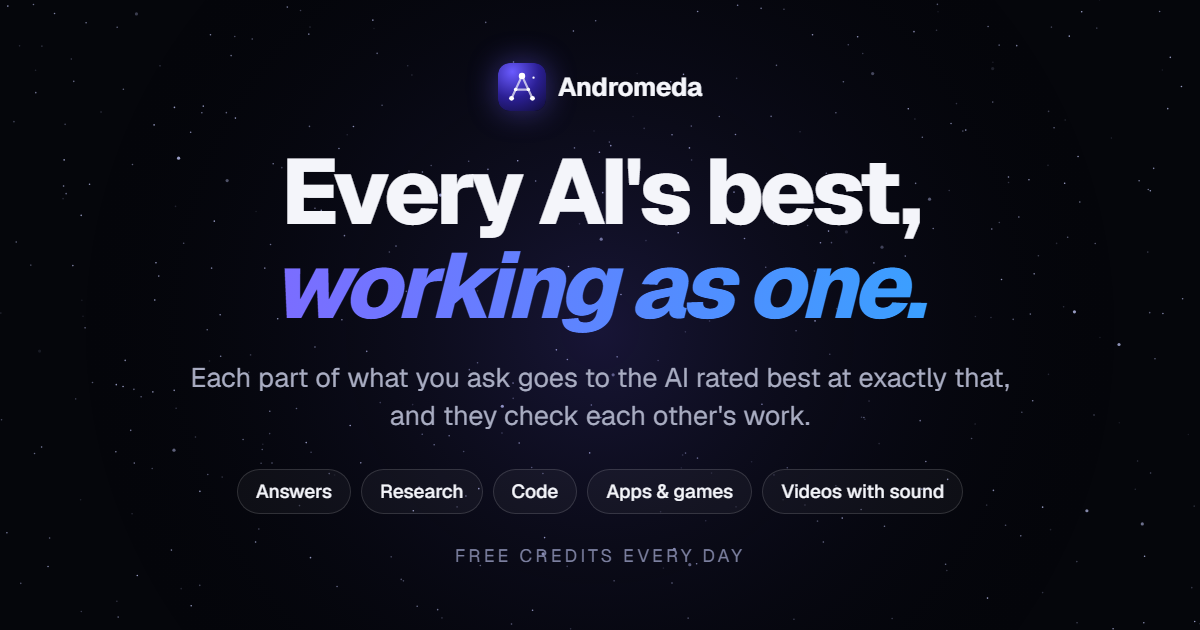
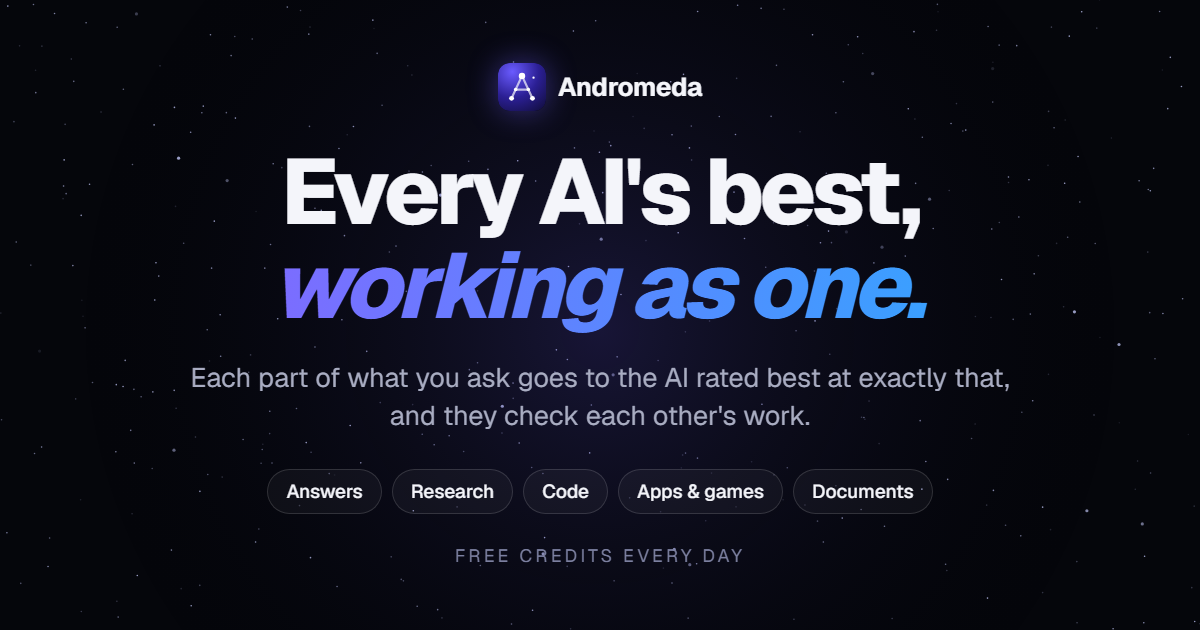
Pictures, video, music and voice by the models best at them, and until those are connected a plain 'not yet' that costs nobody anything (a request that plainly asks for one is stopped before any model is called; never turned into something else); no drawn-in-code stand-in; everyday answers think min

Changed region(s): [[0.2158, 0.754, 0.8017, 0.8143]]

diff --git a/index.html b/index.html
@@ -4,12 +4,12 @@
 <meta charset="utf-8">
 <meta name="viewport" content="width=device-width, initial-scale=1, viewport-fit=cover">
 <title>Andromeda — the right model for every message</title>
-<meta name="description" content="Andromeda makes anything from one message: answers, research, code, apps and games, and videos with sound, each step by the AI model rated best at it. Free credits every day.">
+<meta name="description" content="Andromeda makes anything from one message: answers, research, code, apps and games, documents and study sets, each step by the AI model rated best at it. Free credits every day.">
 <!-- the card a shared link shows (X, WhatsApp, Discord, Telegram...) -->
 <meta property="og:type" content="website">
 <meta property="og:site_name" content="Andromeda">
 <meta property="og:title" content="Andromeda: every AI's best, working as one">
-<meta property="og:description" content="One message, and each part goes to the AI rated best at exactly that: answers, research, code, apps and games, videos with sound. Free credits every day.">
+<meta property="og:description" content="One message, and each part goes to the AI rated best at exactly that: answers, research, code, apps and games. Free credits every day.">
 <meta property="og:url" content="https://georgechendra-cmyk.github.io/andromeda/">
 <meta property="og:image" content="https://georgechendra-cmyk.github.io/andromeda/docs/og.png">
 <meta property="og:image:width" content="1200">
@@ -1600,8 +1600,8 @@ html { scroll-behavior: smooth; }
 			<div class="grid3">
 				<div class="card mk"><div class="ic"><svg width="18" height="18" viewBox="0 0 24 24" fill="none" stroke="currentColor" stroke-width="1.8" stroke-linecap="round" stroke-linejoin="round"><circle cx="12" cy="12" r="9"/><path d="M3 12h18M12 3a14 14 0 0 1 0 18M12 3a14 14 0 0 0 0 18"/></svg></div><h3>Answers you can check</h3><p>Live web search, with the sources read and cited. Deep research when being thorough matters.</p></div>
 				<div class="card mk"><div class="ic"><svg width="18" height="18" viewBox="0 0 24 24" fill="none" stroke="currentColor" stroke-width="1.8" stroke-linecap="round" stroke-linejoin="round"><rect x="2" y="7" width="20" height="12" rx="4"/><path d="M7 11v4M5 13h4"/><circle cx="16" cy="12" r=".6"/><circle cx="18" cy="15" r=".6"/></svg></div><h3>Apps and games</h3><p>Built and running right here, beside the chat, with the code one click away.</p></div>
-				<div class="card mk"><div class="ic"><svg width="18" height="18" viewBox="0 0 24 24" fill="none" stroke="currentColor" stroke-width="1.8" stroke-linecap="round" stroke-linejoin="round"><rect x="3" y="6" width="13" height="12" rx="2"/><path d="m16 10 5-3v10l-5-3z"/></svg></div><h3>Pictures and video</h3><p>Photos, posters, ads and short films, with voiceover and music.</p></div>
-				<div class="card mk"><div class="ic"><svg width="18" height="18" viewBox="0 0 24 24" fill="none" stroke="currentColor" stroke-width="1.8" stroke-linecap="round" stroke-linejoin="round"><path d="M9 18V5l11-2v13"/><circle cx="6" cy="18" r="3"/><circle cx="17" cy="16" r="3"/></svg></div><h3>Music and voice</h3><p>Songs, beats and voiceovers, in any style or language.</p></div>
+				<div class="card mk"><div class="ic"><svg width="18" height="18" viewBox="0 0 24 24" fill="none" stroke="currentColor" stroke-width="1.8" stroke-linecap="round" stroke-linejoin="round"><rect x="3" y="6" width="13" height="12" rx="2"/><path d="m16 10 5-3v10l-5-3z"/></svg></div><h3>Pictures and video <small style="font-weight:500;opacity:.6">coming soon</small></h3><p>Photos, posters, ads and short films, by the models rated best at them, as soon as they're connected.</p></div>
+				<div class="card mk"><div class="ic"><svg width="18" height="18" viewBox="0 0 24 24" fill="none" stroke="currentColor" stroke-width="1.8" stroke-linecap="round" stroke-linejoin="round"><path d="M9 18V5l11-2v13"/><circle cx="6" cy="18" r="3"/><circle cx="17" cy="16" r="3"/></svg></div><h3>Music and voice <small style="font-weight:500;opacity:.6">coming soon</small></h3><p>Songs, beats and voiceovers, in any style or language, as soon as their models are connected.</p></div>
 				<div class="card mk"><div class="ic"><svg width="18" height="18" viewBox="0 0 24 24" fill="none" stroke="currentColor" stroke-width="1.8" stroke-linecap="round" stroke-linejoin="round"><path d="M14 3H7a2 2 0 0 0-2 2v14a2 2 0 0 0 2 2h10a2 2 0 0 0 2-2V8z"/><path d="M14 3v5h5M9 13h6M9 17h4"/></svg></div><h3>Documents</h3><p>Word, PDF, slides and spreadsheets, ready to download.</p></div>
 				<div class="card mk"><div class="ic"><svg width="18" height="18" viewBox="0 0 24 24" fill="none" stroke="currentColor" stroke-width="1.8" stroke-linecap="round" stroke-linejoin="round"><path d="M2 9l10-5 10 5-10 5z"/><path d="M6 11v5c3 2 9 2 12 0v-5"/></svg></div><h3>Study</h3><p>Flashcards, quizzes, mind maps and podcasts, from any topic or your own notes.</p></div>
 			</div>
@@ -2346,6 +2346,8 @@ function pinFirst(list, task) { const p = pinModel(task); return p ? [p, ...list
 // the same, for an effort given (a piece's own best, or a light one for planning)
 function effortFor(id, f) {
 	if (!f) return {};
+	// Claude has no minimal thinking: the nearest is not thinking at all (left out, it doesn't)
+	if (f === "minimal" && /^anthropic\//.test(id)) return {};
 	const m = catalog.find((x) => x.id === id);
 	const has = m && Array.isArray(m.efforts) && m.efforts.length ? m.efforts.filter((e) => e !== "none") : null;
 	if (!has || has.includes(f)) return { reasoning: { effort: f } };
@@ -2864,7 +2866,26 @@ let SKILLS_ON = [];
 const skillLine = () => (SKILLS_ON.length ? "Expert playbooks for this request (follow them):\n" + SKILLS_ON.filter((k) => SKILLBOOK[k]).map((k) => "- " + SKILLBOOK[k][1]).join("\n") : "");
 // a server with no picture, video, voice or music models (a chat-only gateway): videos are still made, every shot drawn
 // in code by the best animator and cut into a real file here
-const drawnOnly = () => creditsMode() && !!pricing && !!pricing.reach && pricing.reach.media === false;
+// (only when the server offers it: the owner's rule is pictures and films by the models best at them, and until those are
+// connected, a plain "not yet" that costs nobody anything)
+const drawnOnly = () => creditsMode() && !!pricing && pricing.drawn === true && !!pricing.reach && pricing.reach.media === false;
+// whether this server can make pictures, videos, music and voice at all
+const mediaReady = () => !creditsMode() || !pricing || !pricing.reach || pricing.reach.media !== false || drawnOnly();
+const MEDIA_WHAT = { image: "pictures", video: "videos", music: "music", voice: "voiceovers" };
+const mediaSoon = (kind, free) => Object.assign(new Error("Andromeda can't make " + (MEDIA_WHAT[kind] || "pictures, videos, music or voiceovers") + " yet: the AI models for this aren't connected to its server. They're coming." + (free ? " Nothing was charged." : "")), { plain: true, quiet: true });
+// A request that plainly asks to make one ("make a 10 second trailer", "buatkan logo kedai kopi"), told before anything
+// is read or spent; not one that only mentions one ("write a script for my video", "explain how film cameras work")
+function makesMedia(text, atts) {
+	const t = String(text || "");
+	if (/\b(script|scripts|plan|essay|article|outline|storyboard|story|lyrics?|captions?|descriptions?|ideas?|prompts?|review|summary|summari[sz]e|explain|history|about|how (to|do|does)|tips|strategy|post|email|naskah|ide|rencana|lirik|deskripsi|cara|jelaskan|tentang|sejarah)\b/i.test(t)) return null;
+	if (!/\b(make|create|generate|produce|render|draw|paint|animate|film|shoot|design|compose|record|buat|buatkan|bikin|bikinin|ciptakan|hasilkan|gambarkan|lukiskan|rekam)\b/i.test(t)) return null;
+	const id = { video: /\b(video|iklan|film|animasi|trailer|klip)\b/i, music: /\b(lagu|musik|jingle|beat)\b/i, voice: /\b(suara|narasi|dubbing|sulih suara)\b/i, image: /\b(gambar|foto|logo|poster|ilustrasi|lukisan|stiker|sampul|wallpaper|banner)\b/i };
+	const m = mediaIntent(t, atts);
+	if (m && !m.edit) return m.kind;
+	if (/\b(interactive|game|app|website|web ?page|html|css|svg|canvas|code|kode|aplikasi|situs)\b/i.test(t)) return null;
+	for (const k of ["video", "music", "voice", "image"]) if (id[k].test(t)) return k;
+	return null;
+}
 const DRAWN_VIDEO = "a real video file (MP4), every shot animated in code by the best animator: motion graphics, kinetic typography and titles, animated illustrations and flat or 2D characters, 3D shapes, diagrams, charts, maps, particles, cut together with captions, transitions, an end card, and music and sound effects composed in code to the cut. This server has no filmed footage, photos or AI voice, so the words are on screen. The way for any video, ad, trailer, explainer, intro or animation";
 const STUDIO_WAYS = ["image", "video", "music", "voice"], STUDY_WAYS = ["flashcards", "quiz", "open", "mindmap", "podcast", "sim"], FILE_WAYS = ["docx", "pdf", "pptx", "xlsx"];
 // The tools in the composer's + menu. Picking one says what kind of thing you want; how it's done, with which models, is
@@ -2988,9 +3009,10 @@ async function conduct(text, atts, tried, only) {
 	const idx = arenaIndex();
 	const skills = idx ? Object.keys(SKILLS).filter((k) => idx[k]) : [];
 	// what this server can make right now: a studio with nothing to make pictures with isn't offered
-	const studio = !creditsMode() || !pricing || !pricing.reach || pricing.reach.media !== false;
-	let ways = Object.entries(WAYS).filter(([k]) => studio || !STUDIO_WAYS.includes(k));
-	if (!studio && drawnOnly()) ways.push(["video", DRAWN_VIDEO]);
+	// (pictures, films, music and voice are always offered: a request for one is one, whether or not this server can make
+	// it yet; one it can't is told so before anything is spent, not turned into something else)
+	let ways = Object.entries(WAYS).filter(([k]) => !(drawnOnly() && STUDIO_WAYS.includes(k)));
+	if (drawnOnly()) ways.push(["video", DRAWN_VIDEO]);
 	// the user's own connected apps (Blender, Figma, their files...), with what each can do
 	if (appsConf().code || (appsConf().online || []).length) await loadApps().catch(() => {});
 	const apps = capOn("computer") ? liveApps() : [], pc = apps.some((s) => s.name === "computer"), others = apps.filter((s) => s.name !== "computer");
@@ -5230,6 +5252,11 @@ async function send(textOverride, fork) {
 		if (catalog.length && !catalog.some((m) => usable(m, "quick"))) throw Object.assign(new Error(isOwner()
 			? "Your server has no AI provider yet. Add your WaveSpeed key: double-click server/SET UP SERVER.bat, or in the server folder run: npx wrangler secret put WAVESPEED_KEY. Then reload this page."
 			: "Andromeda isn't connected to its AI models just now. Try again a little later."), { plain: true });
+		// a picture, film, song or voiceover this server can't make yet: said before anything is read or spent
+		if (!mediaReady()) {
+			const asked = tool === "image" || tool === "video" ? tool : tool === "music" ? (makesMedia(text, atts) === "voice" ? "voice" : "music") : makesMedia(text, atts);
+			if (asked) throw mediaSoon(asked, true);
+		}
 		await useTools(text, atts);
 		// Andromeda reads it and decides how to serve it (the strongest fast reader, by measurement)
 		const hold = { role: "assistant", text: "", streaming: true, status: "Working out the best way to do this" };
@@ -5260,7 +5287,8 @@ async function send(textOverride, fork) {
 				const mark = current.msgs.length;
 				try { await runWay(plan, text, atts); break; }
 				catch (e) {
-					if (e.name === "AbortError" || e.status === 401 || e.status === 402 || round >= 2) throw e;
+					// (something this server can't make yet isn't made into something else)
+					if (e.name === "AbortError" || e.status === 401 || e.status === 402 || e.quiet || round >= 2) throw e;
 					// that way didn't work: told why, it chooses again (another way, or the same one if the error won't repeat)
 					current.msgs.splice(mark);
 					tried.push({ way: plan.way, error: String(e.message || e).slice(0, 240) });
@@ -5297,7 +5325,7 @@ async function send(textOverride, fork) {
 			if (last.role === "assistant" && !last.text && !last.kind) current.msgs.pop();
 			const shown = niceError(e);
 			current.msgs.push({ role: "assistant", error: shown });
-			if (e.status !== 401 && e.status !== 402) noteIssue(shown + " (while answering: " + text.slice(0, 80) + ")");
+			if (e.status !== 401 && e.status !== 402 && !e.quiet) noteIssue(shown + " (while answering: " + text.slice(0, 80) + ")");
 		}
 	}
 	current.msgs.forEach((m) => { m.streaming = false; delete m._shown; });
@@ -5371,7 +5399,9 @@ async function runAuto(text, atts) {
 	// its price, thinking lightly; hard work to the best, thinking as hard as it scored best at. Never a quick, light model
 	// unless it's level with the best: one easy question answered wrong is what people remember.
 	const level = PROFILE && PROFILE_TEXT === text ? PROFILE.level : "";
-	const light = speed() === "max" ? "" : task === "quick" || lite ? "low" : { easy: "low", medium: "medium" }[level] || "";
+	// (an everyday question thinks minimally: LMArena rates what people prefer in chat barely any higher for more thought
+	// than that, about 4 Elo, and it's a third of the price)
+	const light = speed() === "max" ? "" : task === "quick" ? "minimal" : lite ? "low" : { easy: "low", medium: "medium" }[level] || "";
 	// what Andromeda measured itself on exactly this kind of work (never held up waiting for it)
 	const tags = PROFILE && PROFILE_TEXT === text && PROFILE.tags || [];
 	const record = tags.length && PROFILE.record ? await Promise.race([PROFILE.record, sleep(800).then(() => null)]) : null;
@@ -6415,7 +6445,7 @@ function testedLine(t) {
 	if (!t) return "";
 	const looked = t.polished ? " Then looked at like a designer would, and " + t.polished + " thing" + (t.polished === 1 ? "" : "s") + " about how it looks fixed." : "";
 	if (t.ok) return t.fixed ? "\n\n*Tested in the browser: found and fixed " + t.fixed + " problem" + (t.fixed === 1 ? "" : "s") + ", and it now runs clean." + looked + "*" : "\n\n*Tested in the browser: it runs clean." + looked + "*";
-	if (t.short) return "\n\n*Tested in the browser: it still has problems (" + t.problems.slice(0, 3).join("; ") + "), and there weren't enough credits left to fix them" + (t.need ? " (fixing them takes about " + creditsText(t.need) + " credits)" : "") + ". Get more credits, then say \"fix it\".*";
+	if (t.short) return "\n\n*Tested in the browser: it still has problems (" + t.problems.slice(0, 3).join("; ") + "), and there weren't enough credits left to fix them. Get more credits, then say \"fix it\".*";
 	return "\n\n*Tested in the browser: still has problems after " + t.rounds + " fix round" + (t.rounds === 1 ? "" : "s") + ": " + t.problems.slice(0, 3).join("; ") + ". Tell me what you see and I'll fix it.*";
 }
 
@@ -6589,7 +6619,7 @@ async function runApp(text, atts, pick) {
 		const have = me ? me.credits : Infinity;
 		let k = steps.findIndex((cap, n) => need[n] * 1.5 <= have);
 		if (k < 0) k = steps.findIndex((cap, n) => need[n] <= have);
-		if (k < 0) throw fail("Building this app takes about " + creditsText(need[0]) + " credits" + (need[need.length - 1] < need[0] ? " at its best, " + creditsText(need[need.length - 1]) + " at the lightest," : "") + " and you have " + creditsText(Math.max(0, have)) + " left. Get more credits, or wait for your free ones to come back.", 402);
+		if (k < 0) throw fail("Building this app takes more credits than you have left. Get more credits, or wait for your free ones to come back.", 402);
 		buildCap = steps[k];
 	}
 	const msgs = current.msgs;
@@ -7803,8 +7833,8 @@ function chooseTier(plan, left) {
 		const secs = Math.round(tiers[0].e.seconds), count = (k) => plan.scenes.filter((s) => s.motion === k).length;
 		const kinds = [[count("video"), "filmed"], [count("still"), "stills with camera moves"], [count("drawn"), "animated in code"]].filter(([k]) => k).map(([k, w]) => k + " " + w).join(", ");
 		openModal("<h2>" + esc(plan.title) + "</h2><p class=\"sub\">" + plan.scenes.length + " shots (" + kinds + ") · about " + (secs >= 120 ? Math.round(secs / 60) + " minutes" : secs + " seconds") + " · " + esc(plan.aspect) + ". Pick the quality: you only pay for what's made.</p>" +
-			'<div class="tiers" style="--n:' + tiers.length + '">' + tiers.map(({ t, e }) => '<button class="tier' + (t === pick ? " on" : "") + '" data-tier="' + t + '"' + (afford(e) ? "" : " disabled") + "><b>" + VIDEO_TIERS[t].label + "</b><span class=\"price\">≈ " + money$(e.usd) + "</span><span>" + esc(e.model.name) + " · " + esc(fitRes(e.model, VIDEO_TIERS[t].res)) + (t === "max" && count("still") ? " · stills filmed too" : "") + "</span></button>").join("") + "</div>" +
-			'<div class="field"><div class="help">' + (creditsMode() ? (me ? "You have " + creditsText(me.credits) + " credits. " : "") : (left != null ? "Balance " + money$(left) + " · " : "") + "spent today " + money$(SPEND.usd) + ". ") + "Voice by ElevenLabs, music by Lyria, cut here in your browser.</div></div>" +
+			'<div class="tiers" style="--n:' + tiers.length + '">' + tiers.map(({ t, e }) => '<button class="tier' + (t === pick ? " on" : "") + '" data-tier="' + t + '"' + (afford(e) ? "" : " disabled") + "><b>" + VIDEO_TIERS[t].label + "</b>" + (creditsMode() ? "" : "<span class=\"price\">≈ " + money$(e.usd) + "</span>") + "<span>" + esc(e.model.name) + " · " + esc(fitRes(e.model, VIDEO_TIERS[t].res)) + (t === "max" && count("still") ? " · stills filmed too" : "") + "</span></button>").join("") + "</div>" +
+			'<div class="field"><div class="help">' + (creditsMode() ? "" : (left != null ? "Balance " + money$(left) + " · " : "") + "spent today " + money$(SPEND.usd) + ". ") + "Voice by ElevenLabs, music by Lyria, cut here in your browser.</div></div>" +
 			'<div class="row" style="justify-content:flex-end;gap:8px"><button class="btn" id="tierNo">Cancel</button><button class="btn dark" id="tierGo">Make it</button></div>');
 		$$("[data-tier]").forEach((b) => b.onclick = () => { pick = b.dataset.tier; $$("[data-tier]").forEach((x) => x.classList.toggle("on", x === b)); });
 		modalClose = () => res(null);
@@ -7826,9 +7856,9 @@ function confirmDrawn(plan) {
 		const cost = (finest) => drawnCredits(0.06 + (shots + 1) * drawnCost(finest));
 		const credits = cost(speed() === "max"), gain = speed() === "max" ? null : finestGain(), fine = gain ? cost(true) : 0;
 		const short = !!me && me.credits < credits, fineShort = !!me && me.credits < fine;
-		openModal("<h2>" + esc(plan.title) + "</h2><p class=\"sub\">" + plan.scenes.length + " shots, every one animated in code, with music and sound effects composed to the cut · about " + (secs >= 120 ? Math.round(secs / 60) + " minutes" : secs + " seconds") + " · " + esc(plan.aspect) + " · about " + creditsText(credits) + " credits. You only pay for what's made.</p>" +
-			(gain ? '<div class="field"><div class="help"><b>Finest</b>: the animator thinks as hard as it can, about ' + creditsText(fine) + " credits (" + (fine / credits).toFixed(1) + "× the price). People pick the finer version about " + gain + " times in 10 when they compare web designs made both ways; films haven't been measured yet.</div></div>" : "") +
-			'<div class="field"><div class="help">' + (me ? "You have " + creditsText(Math.max(0, me.credits)) + " credits." + (short ? " That isn't enough for all of it: get more credits first. " : " ") : "") + "No voiceover on this server yet, so the words are on screen. Cut here in your browser.</div></div>" +
+		openModal("<h2>" + esc(plan.title) + "</h2><p class=\"sub\">" + plan.scenes.length + " shots, every one animated in code, with music and sound effects composed to the cut · about " + (secs >= 120 ? Math.round(secs / 60) + " minutes" : secs + " seconds") + " · " + esc(plan.aspect) + ". You only pay for what's made.</p>" +
+			(gain ? '<div class="field"><div class="help"><b>Finest</b>: the animator thinks as hard as it can, at about ' + (fine / credits).toFixed(1) + "× the price. People pick the finer version about " + gain + " times in 10 when they compare web designs made both ways; films haven't been measured yet.</div></div>" : "") +
+			'<div class="field"><div class="help">' + (short ? "There aren't enough credits left for all of it: get more credits first. " : "") + "No voiceover on this server yet, so the words are on screen. Cut here in your browser.</div></div>" +
 			'<div class="row" style="justify-content:flex-end;gap:8px"><button class="btn" id="tierNo">Cancel</button>' + (gain ? '<button class="btn" id="tierFine"' + (fineShort ? " disabled" : "") + ">Finest</button>" : "") + '<button class="btn dark" id="tierGo"' + (short ? " disabled" : "") + ">Make it</button></div>");
 		modalClose = () => res(null);
 		const go = (finest) => { try { (STUDIO_AUDIO.ctx ||= new AudioContext()).resume(); } catch {} if (finest) plan.finest = true; modalClose = null; closeModal(); res("standard"); };
@@ -7842,6 +7872,8 @@ const RUNNING = new Set();
 
 // ---- making it
 async function runStudio(text, atts, pick) {
+	// nothing to make it with on this server yet: said before the director or anyone else is asked
+	if (!mediaReady()) throw mediaSoon(pick.kind);
 	// drawn in code: no media models to load
 	if (drawnOnly() && (pick.kind === "video" || pick.edit)) return pick.edit ? studioEdit(text, atts, pick) : runVideo(text, atts);
 	await loadMedia();
@@ -8746,7 +8778,7 @@ async function studioEdit(text, atts, pick) {
 	const cost = d.drawnOnly ? (msg.data.scenes.filter(remake).length + (redo.music ? 1 : 0)) * drawnCost() : msg.data.scenes.reduce((n, s, i) => n + (s.clip ? 0 : vPerSec(vm, VIDEO_TIERS[d.tier].res, true) * fitDur(vm, plan.scenes[i].seconds) + 0.14), 0) + (redo.music ? 0.06 : 0);
 	if (d.drawnOnly ? cost > 0.5 : cost > 1.5) {
 		const ok = await new Promise((res) => {
-			openModal("<h2>Remake " + msg.data.scenes.filter(remake).length + " shot(s)?</h2><p class=\"sub\">That change needs new " + (d.drawnOnly ? "animation" : "footage") + ": about " + (d.drawnOnly ? creditsText(drawnCredits(cost)) + " credits" : money$(cost)) + ". Everything else is reused.</p><div class=\"row\" style=\"justify-content:flex-end;gap:8px\"><button class=\"btn\" id=\"reNo\">Cancel</button><button class=\"btn dark\" id=\"reGo\">Remake</button></div>");
+			openModal("<h2>Remake " + msg.data.scenes.filter(remake).length + " shot(s)?</h2><p class=\"sub\">That change needs new " + (d.drawnOnly ? "animation" : "footage") + (creditsMode() ? "" : ": about " + money$(cost)) + ". Everything else is reused.</p><div class=\"row\" style=\"justify-content:flex-end;gap:8px\"><button class=\"btn\" id=\"reNo\">Cancel</button><button class=\"btn dark\" id=\"reGo\">Remake</button></div>");
 			modalClose = () => res(false);
 			$("#reGo").onclick = () => { modalClose = null; closeModal(); res(true); };
 			$("#reNo").onclick = () => closeModal();
@@ -8817,7 +8849,7 @@ async function renderStudio(m, i, box) {
 	};
 	$$("[data-redo]", box).forEach((b) => b.onclick = () => {
 		const n = Number(b.dataset.redo);
-		openModal("<h2>Redo shot " + (n + 1) + "</h2><p class=\"sub\">Say what to change, or leave it empty for another take. About " + money$(vPerSec(videoModel(d.tier), VIDEO_TIERS[d.tier].res, true) * fitDur(videoModel(d.tier), plan.scenes[n].seconds) + 0.14) + '.</p><div class="field"><textarea class="inp" id="redoT" rows="3" placeholder="e.g. at night, closer on her face"></textarea></div><div class="row" style="justify-content:flex-end;gap:8px"><button class="btn" id="rNo">Cancel</button><button class="btn dark" id="rGo">Redo</button></div>');
+		openModal("<h2>Redo shot " + (n + 1) + "</h2><p class=\"sub\">Say what to change, or leave it empty for another take." + (creditsMode() ? "" : " About " + money$(vPerSec(videoModel(d.tier), VIDEO_TIERS[d.tier].res, true) * fitDur(videoModel(d.tier), plan.scenes[n].seconds) + 0.14) + ".") + '</p><div class="field"><textarea class="inp" id="redoT" rows="3" placeholder="e.g. at night, closer on her face"></textarea></div><div class="row" style="justify-content:flex-end;gap:8px"><button class="btn" id="rNo">Cancel</button><button class="btn dark" id="rGo">Redo</button></div>');
 		$("#rNo").onclick = closeModal;
 		$("#rGo").onclick = () => {
 			try { (STUDIO_AUDIO.ctx ||= new AudioContext()).resume(); } catch {}
@@ -9349,7 +9381,7 @@ async function openPricing() {
 		const can = live && price != null && (idr ? !!(P.qris && P.qris.image) : !!(P.checkout && P.checkout.links && P.checkout.links[p.id]));
 		return '<div class="plan' + (p.popular ? " popular" : "") + '">' + (p.popular ? '<span class="tag">Most popular</span>' : "") +
 			'<div class="pname">' + esc(p.name) + '</div><div class="price">' + (price != null ? money(price, payCur) : "—") + '</div><div class="once">one-time · no subscription</div>' +
-			'<div class="tiles"><div class="tile full"><b>' + creditsText(total) + "</b><span>credits" + (p.bonus ? " · incl. +" + creditsText(p.bonus) + " bonus" : "") + '</span></div><div class="tile"><b>≈' + creditsText(Math.round(total / 12)) + '</b><span>everyday answers</span></div><div class="tile"><b>≈' + creditsText(Math.max(1, Math.round(total / 200))) + "</b><span>apps built</span></div></div>" +
+			'<div class="tiles"><div class="tile full"><b>' + creditsText(total) + "</b><span>credits" + (p.bonus ? " · incl. +" + creditsText(p.bonus) + " bonus" : "") + '</span></div><div class="tile"><b>≈' + creditsText(Math.round(total / 5)) + '</b><span>everyday answers</span></div><div class="tile"><b>≈' + creditsText(Math.max(1, Math.round(total / 200))) + "</b><span>apps built</span></div></div>" +
 			'<ul class="feat"><li>Every model, the best one picked for each task</li><li>Flashcards, quizzes, podcasts and simulations</li><li>Apps and games built and run in the browser</li>' + (p.bonus ? "<li>" + Math.round((p.bonus / p.credits) * 100) + "% more credits for the same price per credit</li>" : "<li>Try everything with no commitment</li>") + "</ul>" +
 			'<button class="btn' + (p.popular ? " dark" : "") + '" data-buy="' + esc(p.id) + '"' + (can ? "" : " disabled") + ">" + (!live ? "Coming soon" : !can ? (price == null ? "Not sold in " + payCur : idr ? "QRIS coming soon" : "Card payment coming soon") : idr ? "Pay with QRIS" : "Pay by card or PayPal") + "</button></div>";
 	};
@@ -9365,7 +9397,7 @@ async function openPricing() {
 		'<div class="plans">' + free + P.packs.map(card).join("") + "</div>" +
 		'<div class="paybox"><b>' + (idr ? "Pay in rupiah" : "Pay in " + payCur) + '</b><span>' + (idr ? "Scan the QRIS with any e-wallet or bank app. Credits are added as soon as the payment is confirmed." : "Secure checkout by " + esc((P.checkout && P.checkout.provider) || "our payment partner") + ". Credits arrive automatically.") + '</span><div class="chips">' + methods.map((m) => "<span>" + m + "</span>").join("") + "</div></div>" +
 		'<div class="qa"><h3>Questions</h3>' +
-		"<details><summary>What is a credit?</summary><p>An everyday answer uses about 12 credits. Long answers and big jobs use more: a full app build with the best models can use a few hundred. Your balance at the top shows what's left.</p></details>" +
+		"<details><summary>What is a credit?</summary><p>An everyday answer uses about 5 credits. Long answers and big jobs use more: a hard question checked by a second top model about 50, a full app built by the best builder about 200. Your account shows what's left.</p></details>" +
 		"<details><summary>What are free credits?</summary><p>Everyone with an account gets " + (P.free || DEFAULT_PRICING.free).credits + " free credits. Once you start using them, they're all back " + (P.free || DEFAULT_PRICING.free).hours + " hours later. They're always used before credits you bought.</p></details>" +
 		"<details><summary>Which models do I get?</summary><p>All of them. Andromeda picks the strongest model for each part of your request (for example Claude for code, GPT for maths, Gemini for long documents) and you can see which ones worked on any answer.</p></details>" +
 		"<details><summary>Do credits expire?</summary><p>No. Credits stay on your account until you use them.</p></details>" +
